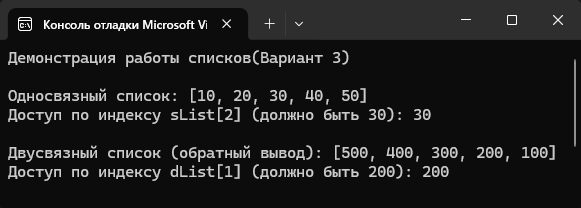
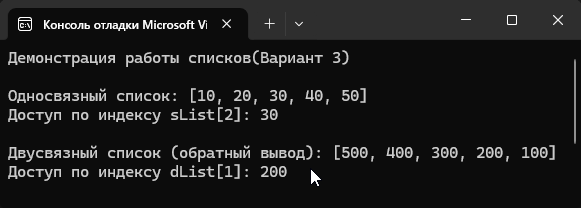
updated

Changed region(s): [[0.4337, 0.7788, 0.7745, 0.8942], [0.4337, 0.5192, 0.6816, 0.6058], [0.7126, 0.5192, 0.7435, 0.5769]]

diff --git a/lab4/README.md b/lab4/README.md
@@ -180,18 +180,19 @@ int main() {
 
     cout << "\nОдносвязный список: ";
     sList.print();
-    cout << "Доступ по индексу sList[2] (должно быть 30): " << sList[2] << endl;
+    cout << "Доступ по индексу sList[2]: " << sList[2] << endl;
 
     DoublyLinkedList<int> dList;
     for (int i = 1; i <= 5; i++) dList.push_back(i * 100);
 
     cout << "\nДвусвязный список (обратный вывод): ";
     dList.printReverse();
-    cout << "Доступ по индексу dList[1] (должно быть 200): " << dList[1] << endl;
+    cout << "Доступ по индексу dList[1]: " << dList[1] << endl;
 
     return 0;
 }
 ```
+
 ## 5. Результаты работы программы
 
 ![Демонстрация работы списков](screenshots/img-1.png)   
@@ -202,6 +203,9 @@ int main() {
 - **`operator[]` (доступ по индексу)**: **O(n)**. Чтобы найти элемент по индексу, нужно пройти от головы списка до нужного узла.
 - **`print` (обход)**: **O(n)**. Требуется пройти по всем элементам списка.
 - **`clear` (очистка)**: **O(n)**. Удаление каждого узла занимает линейное время.
+
+## 8. Выводы
+В ходе работы были реализованы шаблонные классы односвязного и двусвязного списков. Освоено управление указателями и ручное выделение/освобождение памяти для узлов. Реализован доступ по индексу через оператор `[]`. Проведен анализ сложности операций: двусвязный список позволяет быстрее удалять элементы с конца, но требует больше памяти.
 
 ## 7. Ответы на контрольные вопросы
 
@@ -249,9 +253,3 @@ int main() {
 
 ### 15. Почему доступ по индексу в списке имеет сложность O(n)?
 Потому что элементы списка не хранятся в памяти последовательно. У нас нет формулы для вычисления адреса элемента по индексу (как в массиве). Чтобы добраться до `i`-го элемента, нужно последовательно перейти от `head` по указателям `next` ровно `i` раз.
-
-## 8. Выводы
-В ходе работы были реализованы шаблонные классы односвязного и двусвязного списков. Освоено управление указателями и ручное выделение/освобождение памяти для узлов. Реализован доступ по индексу через оператор `[]`. Проведен анализ сложности операций: двусвязный список позволяет быстрее удалять элементы с конца, но требует больше памяти.
-
-## 9. Ссылка на Git-репозиторий
-**Репозиторий GitHub:** [вставить ссылку на репозиторий с исходным кодом]
